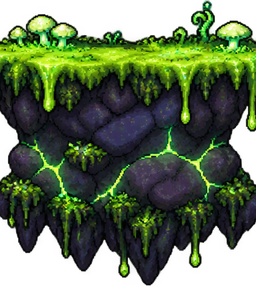
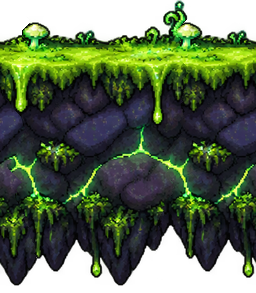
Plateformes de biome d'un seul tenant (nouvelle decoupe des cases milieu et bout, raccord sans encoche), plus de second soleil sur le fond de la foret flottante (BACKGROUNDS_WITH_SUN), harnais de test : file d'attente du serveur agrandie, CLAUDE.md : le papillon n'est qu'une competence

diff --git a/src/utils/LevelKit.js b/src/utils/LevelKit.js
@@ -400,8 +400,14 @@ function zoneBackdropSpec(data, { camLow = 0, camHigh = 0 } = {}) {
   const def = id && typeof getItemManifest === 'function' ? getItemManifest()[id] : null;
   const groundLine = bg.groundLine ?? data.backgroundGroundLine ?? (def && def.groundLine) ?? 1;
   const sky = data.skyReveal ? { ...(data.skyReveal === true ? {} : data.skyReveal) } : null;
+  // Fond peint qui a déjà son propre soleil : pas de second soleil par-dessus
+  // (sauf `rays: true` explicite dans la zone).
+  if (sky && sky.rays === undefined && BACKGROUNDS_WITH_SUN.has(id)) sky.rays = false;
   return { baseline, groundLine, camLow, camHigh, sky };
 }
+
+// Fonds lointains dont l'image contient déjà un soleil (cf. zoneBackdropSpec).
+const BACKGROUNDS_WITH_SUN = new Set(['fond_foret_flottante']);
 
 // Couleur moyenne des rangées du haut ou du bas d'une texture (mise en
 // cache) : prolongement des bords du fond lointain. Repli sombre si les
@@ -2508,6 +2514,9 @@ function renderAutotileGrid(scene, groundGroup, cells, options = {}) {
       //   bordure fermée à droite.
       // - aucun voisin (pos 'tl' sans hasEast -- îlot d'une seule case)
       //   -> platform1, seule variante fermée des DEUX côtés.
+      // Jeux des biomes : platform0 est périodique et le bord droit de
+      // platform2 est celui de platform0 (tools/import_codex_assets.py,
+      // make_platform_tiles) -- une rangée se lit comme UN seul bloc.
       if (pos === 't') {
         textureKey = 'autotile-dirt-platform0';
       } else if (pos === 'tr') {

diff --git a/tools/import_codex_assets.py b/tools/import_codex_assets.py
@@ -35,7 +35,8 @@ garder en double ici). Trois tables y sont lues :
     découpées vers les 21 noms de assets/decors/autotile_frames/ (disposition
     'blob' de LevelKit.js) : contour retiré sur les côtés intérieurs (pas de
     couture), cases du dessus à leur proportion naturelle, mousse calée sur
-    la ligne de marche (cf. make_tile).
+    la ligne de marche (cf. make_tile). Milieu et bout de plateforme
+    reconstruits pour se raccorder sans encoche (cf. make_platform_tiles).
 
 Fonds non transparents : si les 4 coins de l'image sont opaques et qu'elle
 n'est pas censée l'être (fonds `cover` exclus), le fond est retiré : noir via
@@ -82,7 +83,8 @@ TILE_EXPOSED = {
     'dirt_l': 'l', 'dirt_r': 'r',
     'dirt_bl': 'bl', 'dirt_b': 'b', 'dirt_br': 'br',
     # plateformes : 0 = milieu (voisins des 2 côtés), 2 = bout GAUCHE (miroir
-    # pour le bout droit), 1 = isolée (cf. renderAutotileGrid)
+    # pour le bout droit), 1 = isolée (cf. renderAutotileGrid). 0 et 2 sont
+    # ensuite refaits par make_platform_tiles (raccord sans encoche).
     'dirt_platform0': 'tb', 'dirt_platform1': 'tblr', 'dirt_platform2': 'tbl',
     'dirt_column': 'lr',
 }  # absent = case intérieure (centre, variantes, coins intérieurs)
@@ -607,6 +609,153 @@ def compose_inner_corner(angle, l_tile):
     return base
 
 
+# --------------------------------------------------------------------------- plateformes raccordables
+# Bug « les plateformes ne se collent pas » : sur la planche Codex, chaque
+# plateforme (milieu, bout gauche, isolée) est dessinée comme une petite île
+# COMPLÈTE -- flancs arrondis à contour sombre, dessous en bulbe, et pour le
+# jeu corrompu une taille de guêpe. Le rognage de make_tile (TILE_INSET sur
+# le côté intérieur, mesuré sur la rangée de rochers du bas, plus large que la
+# terre) laissait ces flancs dans chaque case : une plateforme de 3 cases se
+# lisait comme 3 îlots séparés par des encoches. On reconstruit donc :
+#   - dirt_platform0 (milieu) : coupé DANS le corps plein de l'île du milieu
+#     (cf. platform_core_cols), prolongé par lui-même si besoin, puis rendu
+#     PÉRIODIQUE (sa colonne de droite se raccorde à sa colonne de gauche) ;
+#   - dirt_platform2 (bout gauche, miroir pour le bout droit) : le bout
+#     arrondi de l'île de gauche, puis le milieu à partir de PLATFORM_JOIN_X
+#     -- son bord droit EST celui du milieu, donc raccord parfait.
+# Raccords par couture d'erreur minimale (seam_cut) : pas de fondu (pas de
+# fantômes de racines), une coupe nette qui passe là où les deux images se
+# ressemblent le plus. Même échelle que l'ancien milieu (aspect inchangé) et
+# même hauteur au-dessus de la ligne de marche pour les deux cases.
+PLATFORM_SEAM = 40          # px de case : largeur des bandes de raccord
+PLATFORM_BODY_INSET = 14    # px source : contour sombre + arrondi retirés du corps plein
+PLATFORM_JOIN_X = TILE // 2 - PLATFORM_SEAM // 2  # début du raccord bout / milieu
+
+
+def surface_row(arr):
+    """1re rangée opaque à plus de 50 % : haut de la mousse (cf. make_tile)."""
+    cov = (arr[:, :, 3] > 128).mean(axis=1)
+    return next((i for i, c in enumerate(cov) if c > 0.5), 0)
+
+
+def platform_core_cols(arr):
+    """Colonnes [x0, x1) où l'île est PLEINE sur toute sa partie haute (de 15 à
+    60 % de sa hauteur sous la mousse : terre, écorce, taille de guêpe
+    comprise), sans la frange irrégulière du dessous."""
+    s = surface_row(arr)
+    above = arr.shape[0] - s
+    full = (arr[s + int(above * 0.15):s + int(above * 0.6), :, 3] > 200).all(axis=0)
+    segs = find_segments(full)
+    if not segs:
+        return None
+    x0, x1 = max(segs, key=lambda t: t[1] - t[0])
+    return x0, x1 + 1
+
+
+def _premultiplied(arr):
+    f = arr.astype(np.float32)
+    a = f[:, :, 3:4] / 255
+    return np.concatenate([f[:, :, :3] * a, f[:, :, 3:4]], axis=2)
+
+
+def seam_cut(a, b):
+    """Bandes superposées a, b (h, w, 4) : pour chaque rangée y, colonne c[y]
+    dans [1, w-1] (à gauche : a, à partir de c[y] : b) le long du chemin
+    vertical continu (|c[y] - c[y-1]| <= 1) de moindre différence (couleurs
+    prémultipliées : deux pixels transparents ne coûtent rien)."""
+    err = np.abs(_premultiplied(a) - _premultiplied(b)).sum(axis=2)
+    h, w = err.shape
+    err[:, 0] = np.inf  # au moins une colonne de a (continuité côté gauche)
+    cost = err.copy()
+    back = np.zeros((h, w), int)
+    cols = np.arange(w)
+    for y in range(1, h):
+        prev = cost[y - 1]
+        cand = np.stack([np.r_[np.inf, prev[:-1]], prev, np.r_[prev[1:], np.inf]])
+        k = np.argmin(cand, axis=0)
+        back[y] = cols + k - 1
+        cost[y] += cand[k, cols]
+    c = np.zeros(h, int)
+    c[-1] = int(np.argmin(cost[-1]))
+    for y in range(h - 1, 0, -1):
+        c[y - 1] = back[y, c[y]]
+    return c
+
+
+def join_seam(a, b):
+    """a puis b, les PLATFORM_SEAM dernières colonnes de a superposées aux
+    premières de b et raccordées par seam_cut."""
+    n = PLATFORM_SEAM
+    c = seam_cut(a[:, -n:], b[:, :n])
+    band = b[:, :n].copy()
+    for y in range(a.shape[0]):
+        band[y, :c[y]] = a[y, a.shape[1] - n:a.shape[1] - n + c[y]]
+    return np.concatenate([a[:, :-n], band, b[:, n:]], axis=1)
+
+
+def make_periodic(strip, w):
+    """Case de largeur w qui se répète sans couture : ses PLATFORM_SEAM
+    premières colonnes passent de la suite de la colonne w-1 (strip[w:]) au
+    début de strip."""
+    n = PLATFORM_SEAM
+    out = strip[:, :w].copy()
+    c = seam_cut(strip[:, w:w + n], strip[:, :n])
+    for y in range(strip.shape[0]):
+        out[y, :c[y]] = strip[y, w:w + c[y]]
+    return out
+
+
+def on_surface(arr, surf, top, h):
+    """arr posé sur une toile de hauteur h, sa rangée `surf` à la rangée `top`."""
+    out = np.zeros((h, arr.shape[1], 4), np.uint8)
+    dy = top - surf
+    y0, y1 = max(0, -dy), min(arr.shape[0], h - dy)
+    out[y0 + dy:y1 + dy] = arr[y0:y1]
+    return out
+
+
+def make_platform_tiles(mid_cell, end_cell, label):
+    """(dirt_platform0, dirt_platform2) raccordables, ou None (repli make_tile)."""
+    mid, end = trim(mid_cell), trim(end_cell)
+    bx0, bx1 = body_x_range(mid)
+    scale = TILE / (bx1 - bx0 - 2 * TILE_INSET)  # échelle de l'ancien milieu
+
+    def resized(a):
+        h, w = a.shape[:2]
+        return np.array(Image.fromarray(a, 'RGBA').resize(
+            (max(1, round(w * scale)), max(1, round(h * scale))), Image.LANCZOS))
+
+    mid_s, end_s = resized(mid), resized(end)
+    core = platform_core_cols(mid_s)
+    inset = round(PLATFORM_BODY_INSET * scale)
+    if core is None or core[1] - core[0] - 2 * inset <= 2 * PLATFORM_SEAM:
+        warn(f'{label} : corps plein du milieu introuvable ou trop étroit -> découpe simple')
+        return None
+    if end_s.shape[1] < PLATFORM_JOIN_X + PLATFORM_SEAM:
+        warn(f'{label} : bout de plateforme trop étroit -> découpe simple')
+        return None
+    body = mid_s[:, core[0] + inset:core[1] - inset]
+    strip = body
+    while strip.shape[1] < TILE + PLATFORM_SEAM:
+        strip = join_seam(strip, body)
+    middle = make_periodic(strip, TILE)
+    # Même hauteur au-dessus de la ligne de marche pour les deux cases (le jeu
+    # ancre l'image par le bas) : mousse à SURFACE_TARGET du bas, ou plus haut
+    # si l'île est plus profonde (comme make_tile : on ne rogne pas le dessous).
+    sm, se = surface_row(middle), surface_row(end_s)
+    above = max(SURFACE_TARGET, middle.shape[0] - sm, end_s.shape[0] - se)
+    top = max(sm, se, TILE - above)
+    h = top + above
+    middle = on_surface(middle, sm, top, h)
+    end_c = on_surface(end_s, se, top, h)
+    left = middle.copy()
+    j = PLATFORM_JOIN_X
+    c = seam_cut(end_c[:, j:j + PLATFORM_SEAM], middle[:, j:j + PLATFORM_SEAM])
+    for y in range(h):
+        left[y, :j + c[y]] = end_c[y, :j + c[y]]
+    return Image.fromarray(middle, 'RGBA'), Image.fromarray(left, 'RGBA')
+
+
 def import_tileset(tid, e, force, dry):
     out_dir = ROOT / e['dir']
     srcs = {k: ROOT / v for k, v in e['src'].items()}
@@ -623,9 +772,11 @@ def import_tileset(tid, e, force, dry):
     if srcs['sol'].exists():
         cells = grid_cells_by_alpha(load_rgba(srcs['sol']), 4, 4, f'{tid} sol')
         jobs += [(name, cells[rc]) for rc, name in TILE_GRID.items()]
+    platform_cells = None
     if srcs['plateformes'].exists():
         cells = grid_cells_by_alpha(load_rgba(srcs['plateformes']), 3, 1, f'{tid} plateformes')
         jobs += [(n, cells[(0, i)]) for i, n in enumerate(PLATFORM_NAMES)]
+        platform_cells = cells
     if srcs['speciaux'].exists():
         cells = grid_cells_by_alpha(load_rgba(srcs['speciaux']), 3, 1, f'{tid} speciaux')
         jobs += [(n, cells[(0, i)]) for i, n in enumerate(SPECIAL_NAMES)]
@@ -635,6 +786,12 @@ def import_tileset(tid, e, force, dry):
             warn(f'{tid} : tuile {name} vide')
             continue
         tiles[name] = make_tile(cell, name)
+    # Milieu et bout de plateforme raccordables (cf. make_platform_tiles) ;
+    # l'île isolée (dirt_platform1) garde la découpe simple.
+    if platform_cells and 'dirt_platform0' in tiles and 'dirt_platform2' in tiles:
+        pair = make_platform_tiles(platform_cells[(0, 0)], platform_cells[(0, 2)], f'{tid} plateformes')
+        if pair:
+            tiles['dirt_platform0'], tiles['dirt_platform2'] = pair
     if 'dirt_angle' in tiles and 'dirt_l' in tiles:
         tiles['dirt_angle'] = compose_inner_corner(tiles['dirt_angle'], tiles['dirt_l'])
     for name, im in tiles.items():

diff --git a/tools/playtest.py b/tools/playtest.py
@@ -42,9 +42,15 @@ class QuietHandler(http.server.SimpleHTTPRequestHandler):
         super().end_headers()
 
 
+class RoomyHTTPServer(http.server.ThreadingHTTPServer):
+    # File d'attente par défaut (5) trop courte : le jeu charge ~600 fichiers
+    # d'un coup et des connexions étaient refusées (« connection refused »).
+    request_queue_size = 512
+
+
 def serve(port):
     handler = functools.partial(QuietHandler, directory=ROOT)
-    httpd = http.server.ThreadingHTTPServer(('127.0.0.1', port), handler)
+    httpd = RoomyHTTPServer(('127.0.0.1', port), handler)
     threading.Thread(target=httpd.serve_forever, daemon=True).start()
     return httpd
 

diff --git a/CLAUDE.md b/CLAUDE.md
@@ -59,8 +59,10 @@ ligne de marche du jeu par défaut. Hauteur de marche : `448 + GROUND_STAND_SINK
   Échap/P pause.
 - **Formes** débloquées par l'histoire, automatiques (jamais un bouton) : sol = **Loup**
   (sprint, pistes, plateformes cachées), aérien = **Singe** (lianes) OU **Aigle** (plané,
-  courants d'air) OU **Papillon** (battement + dash en diagonale) au choix, eau = **Pieuvre**. **Compétences** (énergie) : ours, pierre,
-  papillon (soigne les corrompus). **Feux de camp** : soin, sauvegarde, menu formes /
+  courants d'air) au choix, eau = **Pieuvre**. **Compétences** (énergie) : ours, pierre,
+  papillon (soigne les corrompus). Le papillon n'est QU'une compétence (décision
+  utilisateur du 2026-10-24) : ce n'est pas une forme aérienne et il ne remplace
+  pas le double saut. **Feux de camp** : soin, sauvegarde, menu formes /
   compétences / totems (monde gelé).
 - **Compagnon Xara** (araignée) : suit Agarica, parle, pas de combat.
 - **StoryKit** : nouvelles clés de zone (npcs, triggers, pickups, mossBlocks, vines,
